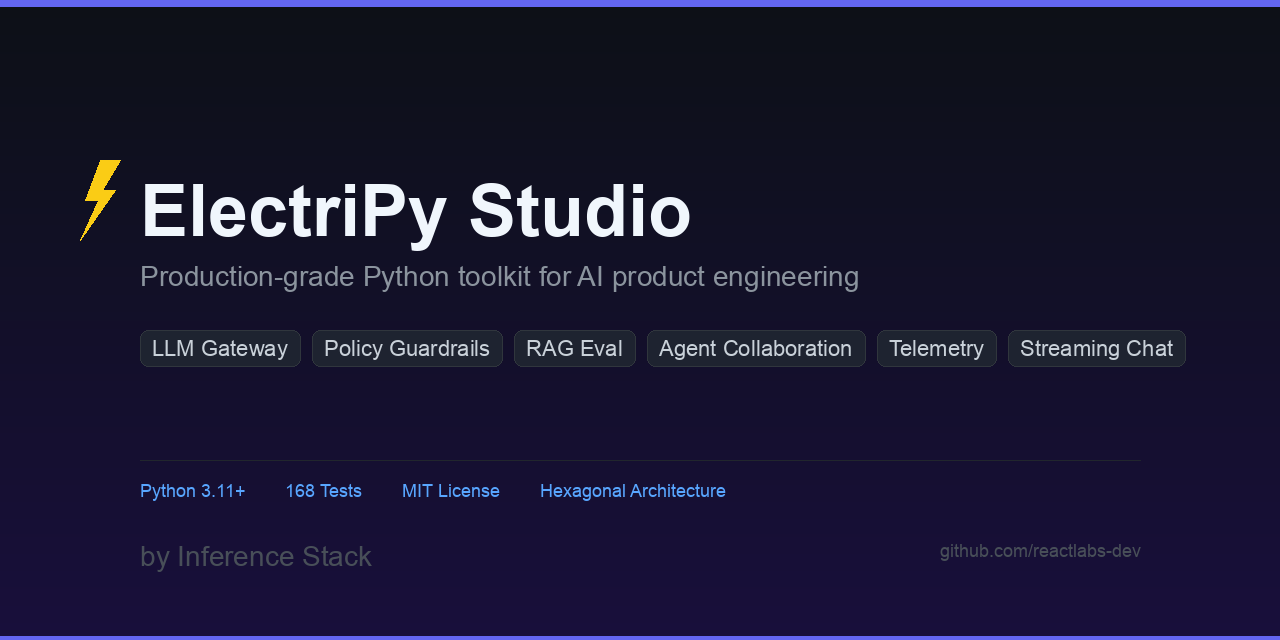
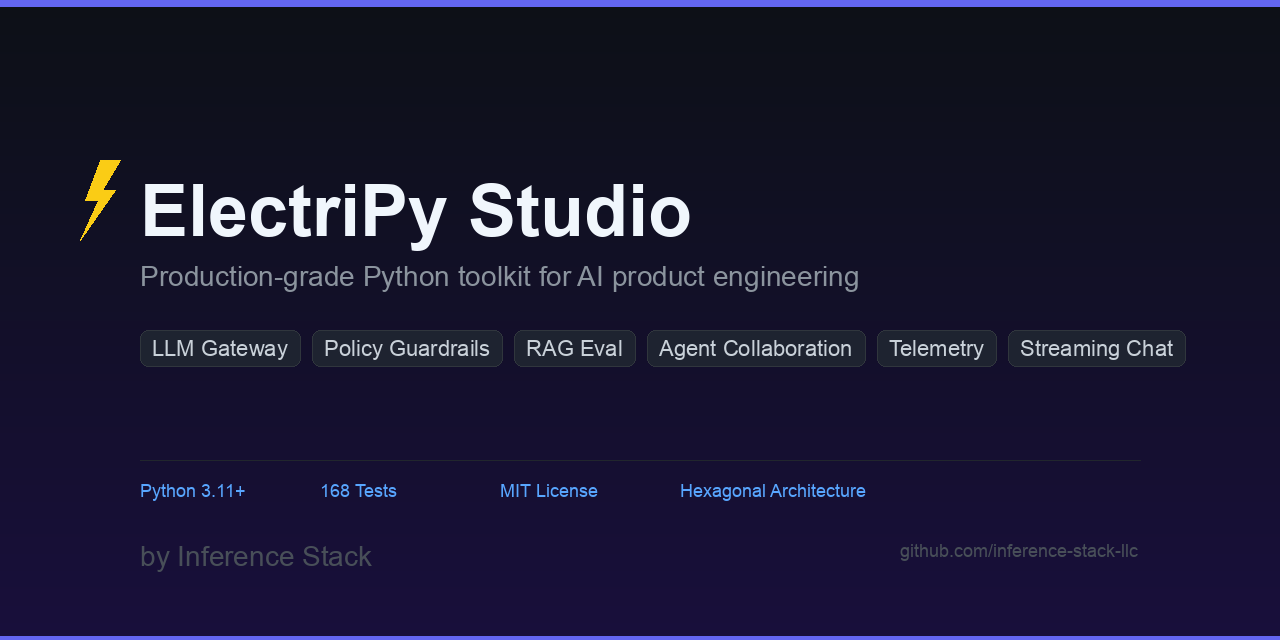
chore: rename org reactlabs-dev → inference-stack-llc across all references
- pyproject.toml: update name to electripy-studio, add project.urls, update keywords/classifiers
- README.md: update all badge URLs, install commands, links; add PyPI badge
- mkdocs.yml: update repo_url and repo_name
- CONTRIBUTING.md, docs/: update clone and issue URLs
- packages/electripy-cli/: update package.json repo URL
- images/social-preview.png: regenerate with new org URL
- .github/workflows/publish.yml: add manual-trigger PyPI publish workflow

Changed region(s): [[0.2188, 0.75, 0.6875, 0.7812], [0.6875, 0.8438, 0.9062, 0.875]]

diff --git a/README.md b/README.md
@@ -6,8 +6,9 @@
 
 Production-minded Python components and recipes (cookbook) by Inference Stack.
 
-[![CI](https://github.com/reactlabs-dev/electripy-studio/actions/workflows/ci.yml/badge.svg)](https://github.com/reactlabs-dev/electripy-studio/actions/workflows/ci.yml)
-[![Release](https://img.shields.io/github/v/release/reactlabs-dev/electripy-studio?label=release&color=brightgreen)](https://github.com/reactlabs-dev/electripy-studio/releases/latest)
+[![CI](https://github.com/inference-stack-llc/electripy-studio/actions/workflows/ci.yml/badge.svg)](https://github.com/inference-stack-llc/electripy-studio/actions/workflows/ci.yml)
+[![PyPI](https://img.shields.io/pypi/v/electripy-studio?color=brightgreen)](https://pypi.org/project/electripy-studio/)
+[![Release](https://img.shields.io/github/v/release/inference-stack-llc/electripy-studio?label=release&color=brightgreen)](https://github.com/inference-stack-llc/electripy-studio/releases/latest)
 [![Python 3.11+](https://img.shields.io/badge/python-3.11+-blue.svg)](https://www.python.org/downloads/)
 [![License: MIT](https://img.shields.io/badge/License-MIT-yellow.svg)](https://opensource.org/licenses/MIT)
 
@@ -73,10 +74,10 @@ ElectriPy is **not** a framework — it's a composable toolkit of production-gra
 
 For most users, ElectriPy is just a Python library you depend on in your own project.
 
-Once published to PyPI, you can install it directly:
+Install from PyPI:
 
 ```bash
-pip install electripy
+pip install electripy-studio
 ```
 
 To work against a local clone in editable mode (e.g., to experiment with changes while using it in another project):
@@ -286,14 +287,14 @@ source .venv/bin/activate
 uv pip install -e ".[dev]"
 ```
 
-You can also use `uv pip install electripy` in your own projects once the package is published.
+You can also use `uv pip install electripy-studio` in your own projects.
 
 #### 3. Using poetry in your own projects (optional)
 
 This repo is built with `pyproject.toml` + Hatchling, but you can happily **consume** ElectriPy from a Poetry-managed project:
 
 ```bash
-poetry add electripy
+poetry add electripy-studio
 ```
 
 The library itself has no dependency on Poetry; it's just a convenient project manager if you already use it.
@@ -343,6 +344,6 @@ Contributions are welcome! Please read our [Contributing Guide](CONTRIBUTING.md)
 
 ## Links
 
-- [GitHub Repository](https://github.com/reactlabs-dev/electripy-studio)
+- [GitHub Repository](https://github.com/inference-stack-llc/electripy-studio)
 - [Documentation](docs/)
-- [Issue Tracker](https://github.com/reactlabs-dev/electripy-studio/issues)
+- [Issue Tracker](https://github.com/inference-stack-llc/electripy-studio/issues)

diff --git a/CONTRIBUTING.md b/CONTRIBUTING.md
@@ -5,7 +5,7 @@ Thank you for your interest in contributing! This guide covers everything you ne
 ## Development setup
 
 ```bash
-git clone https://github.com/reactlabs-dev/electripy-studio.git
+git clone https://github.com/inference-stack-llc/electripy-studio.git
 cd electripy-studio
 python -m venv .venv && source .venv/bin/activate
 pip install -e ".[dev]"
@@ -55,7 +55,7 @@ When adding a new module, mirror this structure.
 
 ## Reporting issues
 
-Open a [GitHub issue](https://github.com/reactlabs-dev/electripy-studio/issues) with:
+Open a [GitHub issue](https://github.com/inference-stack-llc/electripy-studio/issues) with:
 
 - A minimal reproduction or failing test case
 - Python version and OS

diff --git a/docs/index.md b/docs/index.md
@@ -51,4 +51,4 @@ ElectriPy Studio is a curated collection of production-ready Python components a
 
 ## License
 
-MIT License - See [LICENSE](https://github.com/reactlabs-dev/electripy-studio/blob/main/LICENSE) for details.
+MIT License - See [LICENSE](https://github.com/inference-stack-llc/electripy-studio/blob/main/LICENSE) for details.

diff --git a/docs/getting-started/installation.md b/docs/getting-started/installation.md
@@ -16,7 +16,7 @@ pip install electripy
 Clone the repository and install in editable mode:
 
 ```bash
-git clone https://github.com/reactlabs-dev/electripy-studio.git
+git clone https://github.com/inference-stack-llc/electripy-studio.git
 cd electripy-studio
 pip install -e .
 ```

diff --git a/packages/electripy-cli/README.md b/packages/electripy-cli/README.md
@@ -27,7 +27,7 @@ electripy --help    # Show help
 ## Documentation
 
 See the main documentation at:
-https://github.com/reactlabs-dev/electripy-studio
+https://github.com/inference-stack-llc/electripy-studio
 
 ## License
 
